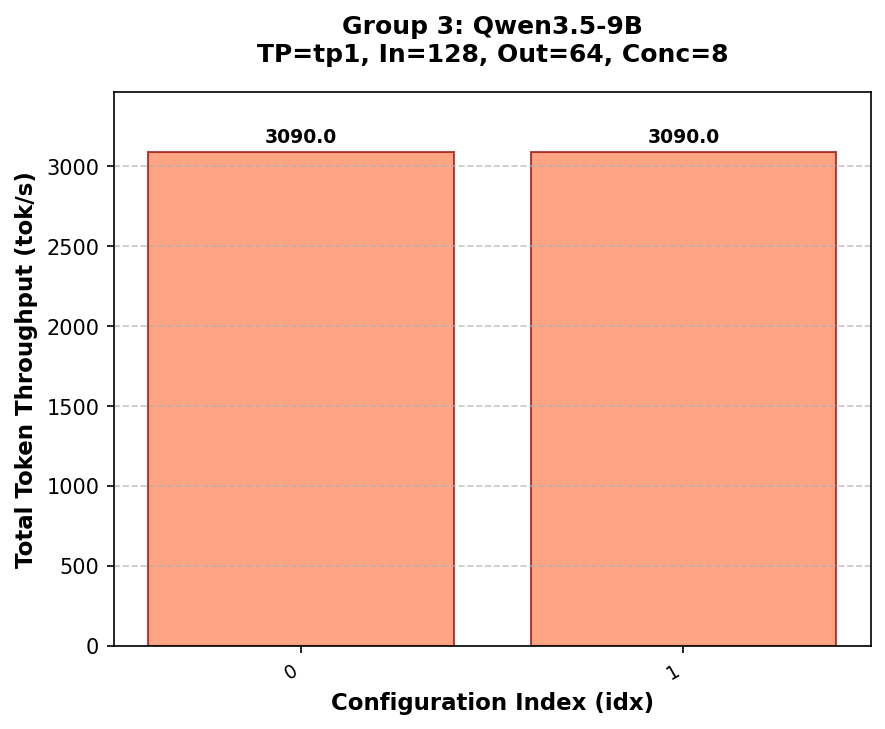
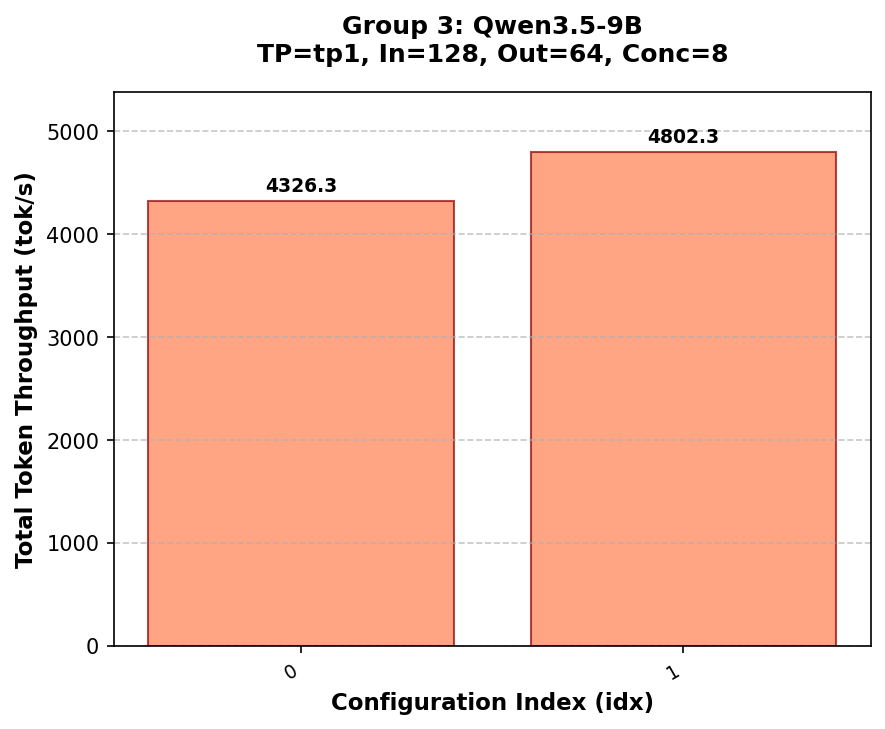
full pipline version

diff --git a/reports/benchmark_report_20260409_132912.md b/reports/benchmark_report_20260409_132912.md
@@ -1,0 +1,150 @@
+# Benchmark Results Report
+
+**Generated:** 2026-04-09 13:29:12
+
+## SLO Criteria
+
+- No SLO thresholds applied
+- Data Policy: remove_min_max
+
+## Group Results
+
+### Group 0
+
+| Attribute | Value |
+|-----------|-------|
+| **Model** | Qwen3.5-9B |
+| **Deploy Method** | tp1 |
+| **Template ID** | 1 |
+| **Input Length** | 64 |
+| **Output Length** | 32 |
+| **Max Concurrency** | 16 |
+| **Image Size/Count** | 448x448/1 |
+
+![Group 0 Plot](group_0_results.png)
+
+#### Results
+
+| idx | Throughput (tok/s) | TTFT (ms) | TPOT (ms) |
+| --- | --- | --- | --- |
+| 0 | 4073.7 | 0.0 | 38.5 |
+| 1 | 4414.1 | 0.0 | 35.5 |
+
+#### Configuration Details
+
+| idx | Env Opt | Server Args Opt | Additional Options |
+| --- | --- | --- | --- |
+| 0 | (none) | (none) | --context-length 262144 --reasoning-parser qwen3 |
+| 1 | (none) | --decode-attention-backend flashinfer | --context-length 262144 --reasoning-parser qwen3 |
+
+### Group 1
+
+| Attribute | Value |
+|-----------|-------|
+| **Model** | Qwen3.5-9B |
+| **Deploy Method** | tp1 |
+| **Template ID** | 1 |
+| **Input Length** | 64 |
+| **Output Length** | 32 |
+| **Max Concurrency** | 32 |
+| **Image Size/Count** | 448x448/1 |
+
+![Group 1 Plot](group_1_results.png)
+
+#### Results
+
+| idx | Throughput (tok/s) | TTFT (ms) | TPOT (ms) |
+| --- | --- | --- | --- |
+| 0 | 4713.1 | 0.0 | 66.6 |
+| 1 | 4888.6 | 0.0 | 64.3 |
+
+#### Configuration Details
+
+| idx | Env Opt | Server Args Opt | Additional Options |
+| --- | --- | --- | --- |
+| 0 | (none) | (none) | --context-length 262144 --reasoning-parser qwen3 |
+| 1 | (none) | --decode-attention-backend flashinfer | --context-length 262144 --reasoning-parser qwen3 |
+
+### Group 2
+
+| Attribute | Value |
+|-----------|-------|
+| **Model** | Qwen3.5-9B |
+| **Deploy Method** | tp1 |
+| **Template ID** | 1 |
+| **Input Length** | 64 |
+| **Output Length** | 32 |
+| **Max Concurrency** | 64 |
+| **Image Size/Count** | 448x448/1 |
+
+![Group 2 Plot](group_2_results.png)
+
+#### Results
+
+| idx | Throughput (tok/s) | TTFT (ms) | TPOT (ms) |
+| --- | --- | --- | --- |
+| 0 | 5196.8 | 0.0 | 120.9 |
+| 1 | 5300.9 | 0.0 | 118.5 |
+
+#### Configuration Details
+
+| idx | Env Opt | Server Args Opt | Additional Options |
+| --- | --- | --- | --- |
+| 0 | (none) | (none) | --context-length 262144 --reasoning-parser qwen3 |
+| 1 | (none) | --decode-attention-backend flashinfer | --context-length 262144 --reasoning-parser qwen3 |
+
+### Group 3
+
+| Attribute | Value |
+|-----------|-------|
+| **Model** | Qwen3.5-9B |
+| **Deploy Method** | tp1 |
+| **Template ID** | 1 |
+| **Input Length** | 128 |
+| **Output Length** | 64 |
+| **Max Concurrency** | 8 |
+| **Image Size/Count** | 1280x1280/1 |
+
+![Group 3 Plot](group_3_results.png)
+
+#### Results
+
+| idx | Throughput (tok/s) | TTFT (ms) | TPOT (ms) |
+| --- | --- | --- | --- |
+| 0 | 4326.3 | 22.2 | 52.6 |
+| 1 | 4802.3 | 0.0 | 47.7 |
+
+#### Configuration Details
+
+| idx | Env Opt | Server Args Opt | Additional Options |
+| --- | --- | --- | --- |
+| 0 | (none) | (none) | --context-length 262144 --reasoning-parser qwen3 |
+| 1 | SGLANG_VISION_ATTN_FP8=1 | (none) | --context-length 262144 --reasoning-parser qwen3 |
+
+### Group 4
+
+| Attribute | Value |
+|-----------|-------|
+| **Model** | Qwen3.5-9B |
+| **Deploy Method** | tp1 |
+| **Template ID** | 1 |
+| **Input Length** | 128 |
+| **Output Length** | 64 |
+| **Max Concurrency** | 16 |
+| **Image Size/Count** | 1280x1280/1 |
+
+![Group 4 Plot](group_4_results.png)
+
+#### Results
+
+| idx | Throughput (tok/s) | TTFT (ms) | TPOT (ms) |
+| --- | --- | --- | --- |
+| 0 | 4775.7 | 0.0 | 96.1 |
+| 1 | 5287.8 | 0.0 | 86.7 |
+
+#### Configuration Details
+
+| idx | Env Opt | Server Args Opt | Additional Options |
+| --- | --- | --- | --- |
+| 0 | (none) | (none) | --context-length 262144 --reasoning-parser qwen3 |
+| 1 | SGLANG_VISION_ATTN_FP8=1 | (none) | --context-length 262144 --reasoning-parser qwen3 |
